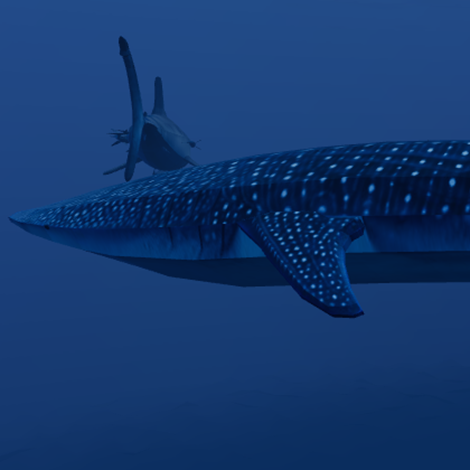
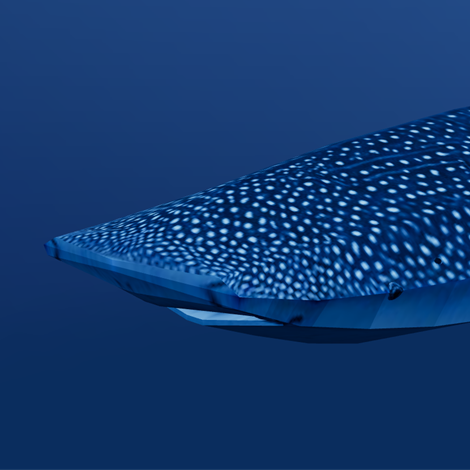
Whale shark Atlas tile: head close-up (v0.24.0-dev_3)
A three-quarter view of fish 410's head, rendered in the tank with the
other fish and particles hidden for the frame, replacing dev_2's side-on
capture that had the mako in it.

Changed region(s): [[0.0298, 0.0596, 1.0, 0.7447], [0.3277, 0.1489, 0.3574, 0.2383]]

diff --git a/src/data/species.js b/src/data/species.js
@@ -2276,7 +2276,8 @@ export const SPECIES = [
     scientificName: 'Rhincodon typus',
     family: 'Rhincodontidae',
     alternateNames: [],
-    // Tank capture (2026-10-16): fish 410 side-on, head and front half, the mako passing above.
+    // Tank render (2026-10-16, dev_3): fish 410's head in three-quarter view, the other fish and
+    // particles hidden for the frame so nothing else is in the water.
     atlasThumbnail: '/atlas/rhincodon-typus-thumbnail.png',
     biome: 'ocean',
     depthZone: 'epipelagic',

diff --git a/src/version.js b/src/version.js
@@ -1,3 +1,3 @@
-export const APP_VERSION = 'v0.24.0-dev_2'
+export const APP_VERSION = 'v0.24.0-dev_3'
 export const APP_VERSION_LABEL = `world oceanarium ${APP_VERSION}`
 export const APP_VERSION_SHORT_LABEL = APP_VERSION

diff --git a/CHANGELOG.md b/CHANGELOG.md
@@ -10,7 +10,7 @@ Versioning convention notes:
 
 ## v0.24.0 — Whale Shark (in progress)
 
-Status: in development as `v0.24.0-dev_2`, waiting on Jeremy's phone review (`dev_1` the species, `dev_2` its Atlas tile and the Atlas sorted by scientific name). (`v0.23.0` is the situational fish lighting, open in #128.) 1 juvenile in `creatures_dev` (id 410); none in production `creatures`.
+Status: in development as `v0.24.0-dev_2`, waiting on Jeremy's phone review (`dev_1` the species, `dev_2` its Atlas tile and the Atlas sorted by scientific name, `dev_3` a new tile). (`v0.23.0` is the situational fish lighting, open in #128.) 1 juvenile in `creatures_dev` (id 410); none in production `creatures`.
 
 ### Species
 
@@ -23,7 +23,7 @@ Status: in development as `v0.24.0-dev_2`, waiting on Jeremy's phone review (`de
 
 ### Atlas
 
-- Whale Shark tile (`dev_2`): a tank capture of fish 410 side-on, head, gill spots, and pectoral fin, with the mako passing above; 470 × 470 like the mako's.
+- Whale Shark tile: a close-up of fish 410's head in three-quarter view, mouth, eye, and spots, rendered in the tank with the other fish and particles hidden for that frame; 470 × 470 like the mako's. (`dev_2`'s side-on capture had the mako in it and read small; Jeremy asked for a closer, cleaner head shot in `dev_3`.)
 - The Atlas lists species alphabetically by scientific name (`dev_2`, Jeremy's request), so a new species slots in by name instead of at the end. The Nº shown is the place in that list, so most species renumber: the triggerfish is now Nº 002, the mahi-mahi Nº 003, and so on; the sardinella stays Nº 001 and the whale shark is Nº 011.
 
 ### Fixes

diff --git a/ROADMAP.md b/ROADMAP.md
@@ -15,14 +15,14 @@ Status labels:
 
 ### Whale Shark
 
-Status: `Current in development` — `v0.24.0-dev_2`, branch `feat/rhincodon-typus`. Jeremy (2026-10-16): a juvenile in the Open Sea, bigger than the mako. 6 m (24 WU) juveniles only; see the species entry.
+Status: `Current in development` — `v0.24.0-dev_3`, branch `feat/rhincodon-typus`. Jeremy (2026-10-16): a juvenile in the Open Sea, bigger than the mako. 6 m (24 WU) juveniles only; see the species entry.
 
 Subtasks:
 - [x] Species data from FishBase, maturity and growth from Norman & Stevens 2007 and Meekan et al. 2020.
 - [x] Model intake: opaque material, JPEG texture (2.2 → 0.33 MB), verifier target, Atlas framing on desktop and a 375 px phone.
 - [x] `creatures_dev` row (2026-10-16): 1 juvenile male, id 410, size parameter 0.5 (24 WU). Insert only: undo is a delete of id 410.
 - [ ] Jeremy review on phone: size against the mako, the slow stroke, how dark it reads at the default follow distance.
-- [x] Atlas list tile (`dev_2`): tank capture of fish 410, 470 × 470.
+- [x] Atlas list tile (`dev_3`): head close-up of fish 410, nothing else in frame, 470 × 470.
 - [x] Atlas sorted alphabetically by scientific name (`dev_2`, Jeremy's request).
 - [ ] Production `creatures` rows, on Jeremy's go-ahead.
 - [ ] Filter-feeding passes near the surface through the sardine schools. `Backlog`
